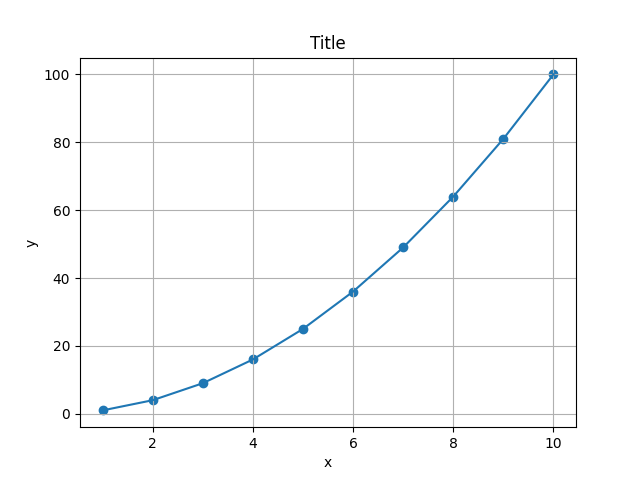
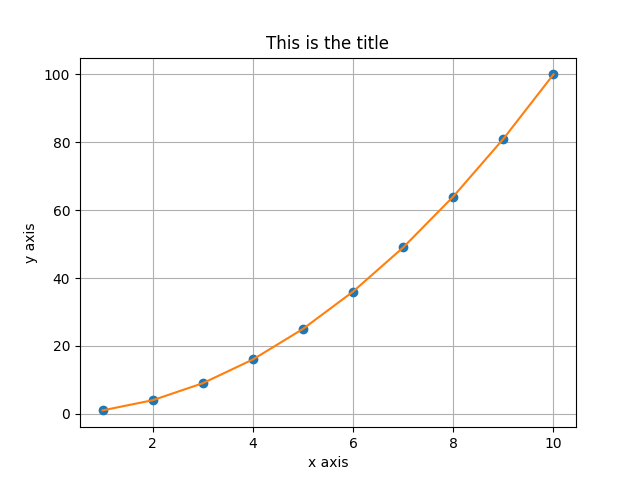
Base fitter service (#22)
Added base fitter service. It works as is, with no integration with
other services.
This PR closes #21.

diff --git a/services/fitter/fitter.py b/services/fitter/fitter.py
@@ -1,0 +1,91 @@
+from io import BytesIO
+import PIL.Image as Image
+
+import pandas as pd
+import matplotlib.pyplot as plt
+
+import numpy as np
+from scipy.optimize import curve_fit
+
+import sys
+
+sys.path.append(".")
+from services.plotter.models import Configurations
+
+
+def get_data(file_path):
+    df = pd.read_csv(file_path, sep=",", index_col=0)
+    return df
+
+
+def frame_builder(configs):
+    plt.title(configs.title)
+    plt.xlabel(configs.xlabel)
+    plt.ylabel(configs.ylabel)
+    plt.grid(configs.grid)
+
+
+def plot_builder(data, index, funcs):
+    # TODO: make it general for all plots
+    for i in index:
+        plt.plot(data.index, data[i], "o", label=i + " data")
+
+    for i, func in zip(index, funcs):
+        plt.plot(data.index, func, label=i + " fit")
+    plt.legend()
+
+
+# Quadratic
+def Quadratic(x, A, B):
+    y = A * x**2 + B
+    return y
+
+
+def Gauss(x, a, mu, s):
+    y = a * np.exp(-((x - mu) ** 2) / (2 * s**2))
+    return y
+
+
+def fit_builder(data, index, function):
+    x = np.array(data.index)
+    y = np.array(data[index])
+
+    parameters, covariance = curve_fit(function, x, y)
+
+    return function(data.index, *parameters), covariance
+
+
+def graph_builder(data, configs):
+    func1, cov1 = fit_builder(data, "y", Quadratic)
+    func2, cov2 = fit_builder(data, "z", Gauss)
+
+    fig = plt.figure()
+
+    # TODO: validator()
+    frame_builder(configs=configs)
+    plot_builder(data=data, index=["y", "z"], funcs=[func1, func2])
+
+    plt.show()
+
+    buffer = BytesIO()
+    fig.savefig(buffer, format="png")
+
+    return buffer.getvalue()
+
+
+def run():
+    # running from local file
+    file_path = "./tests/data/test.csv"
+    configurations = Configurations(
+        title="This is the title", xlabel="x axis", ylabel="y axis", plot_color="green"
+    )
+
+    data = get_data(file_path)
+    response = graph_builder(data, configurations)
+
+    image = Image.open(BytesIO(response))
+    image.save("services/fitter/tmp/test.png")
+
+
+if __name__ == "__main__":
+    run()

diff --git a/tests/integration/plotter_test.py b/tests/integration/plotter_test.py
@@ -8,9 +8,7 @@ def test_call_endpoint():
 
 
 def test_no_file_provided():
-    payload = {
-        "title": "This is a title"
-    }
+    payload = {"title": "This is a title"}
 
     response = r.post(url=config("PLOTTER_ENDPOINT"), params=payload)
     assert response.status_code == 400
@@ -20,9 +18,7 @@ def test_plot_2d():
     file_path = "./data/test.csv"
 
     files = {("file", open(file_path, "rb"))}
-    payload = {
-        "title": "This is a title"
-    }
+    payload = {"title": "This is a title"}
 
     response = r.post(url=config("PLOTTER_ENDPOINT"), files=files, params=payload)
     assert response.status_code == 200

diff --git a/services/gateway/server.py b/services/gateway/server.py
@@ -33,6 +33,7 @@ async def plot_request(
 
     return FileResponse("services\\plotter\\tmp\\tmp.png")
 
+
 @app.get("/")
 async def default():
     return {"Hello": "World"}
